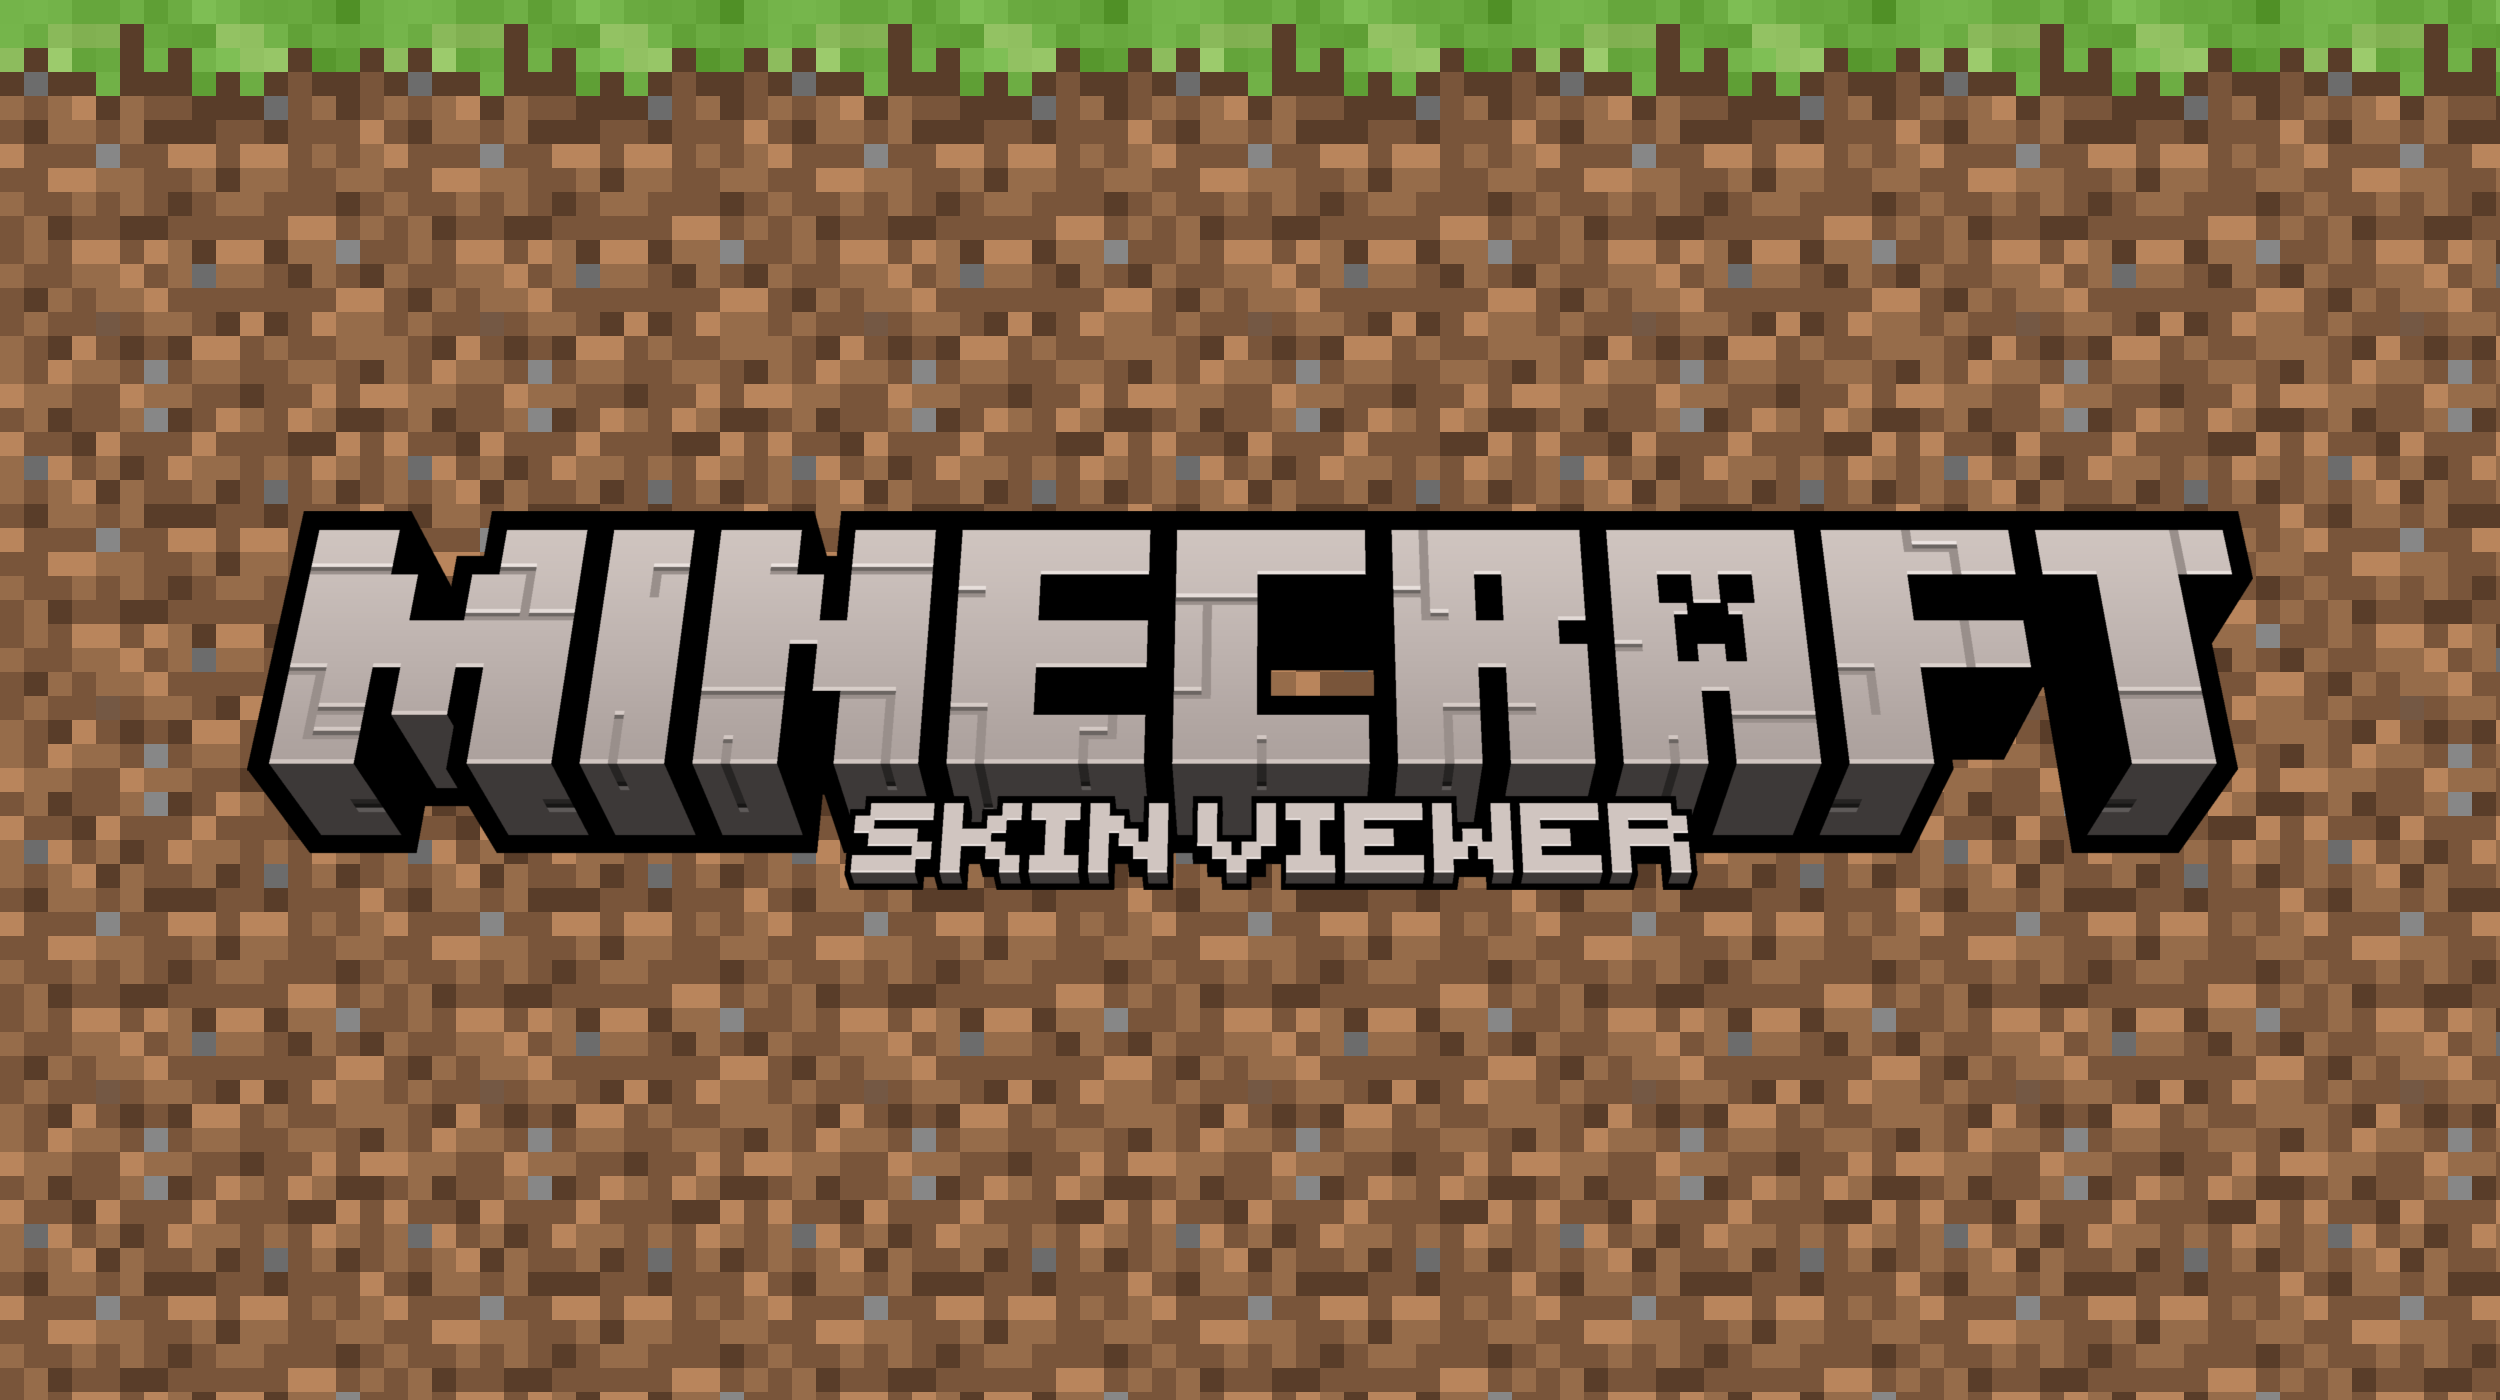
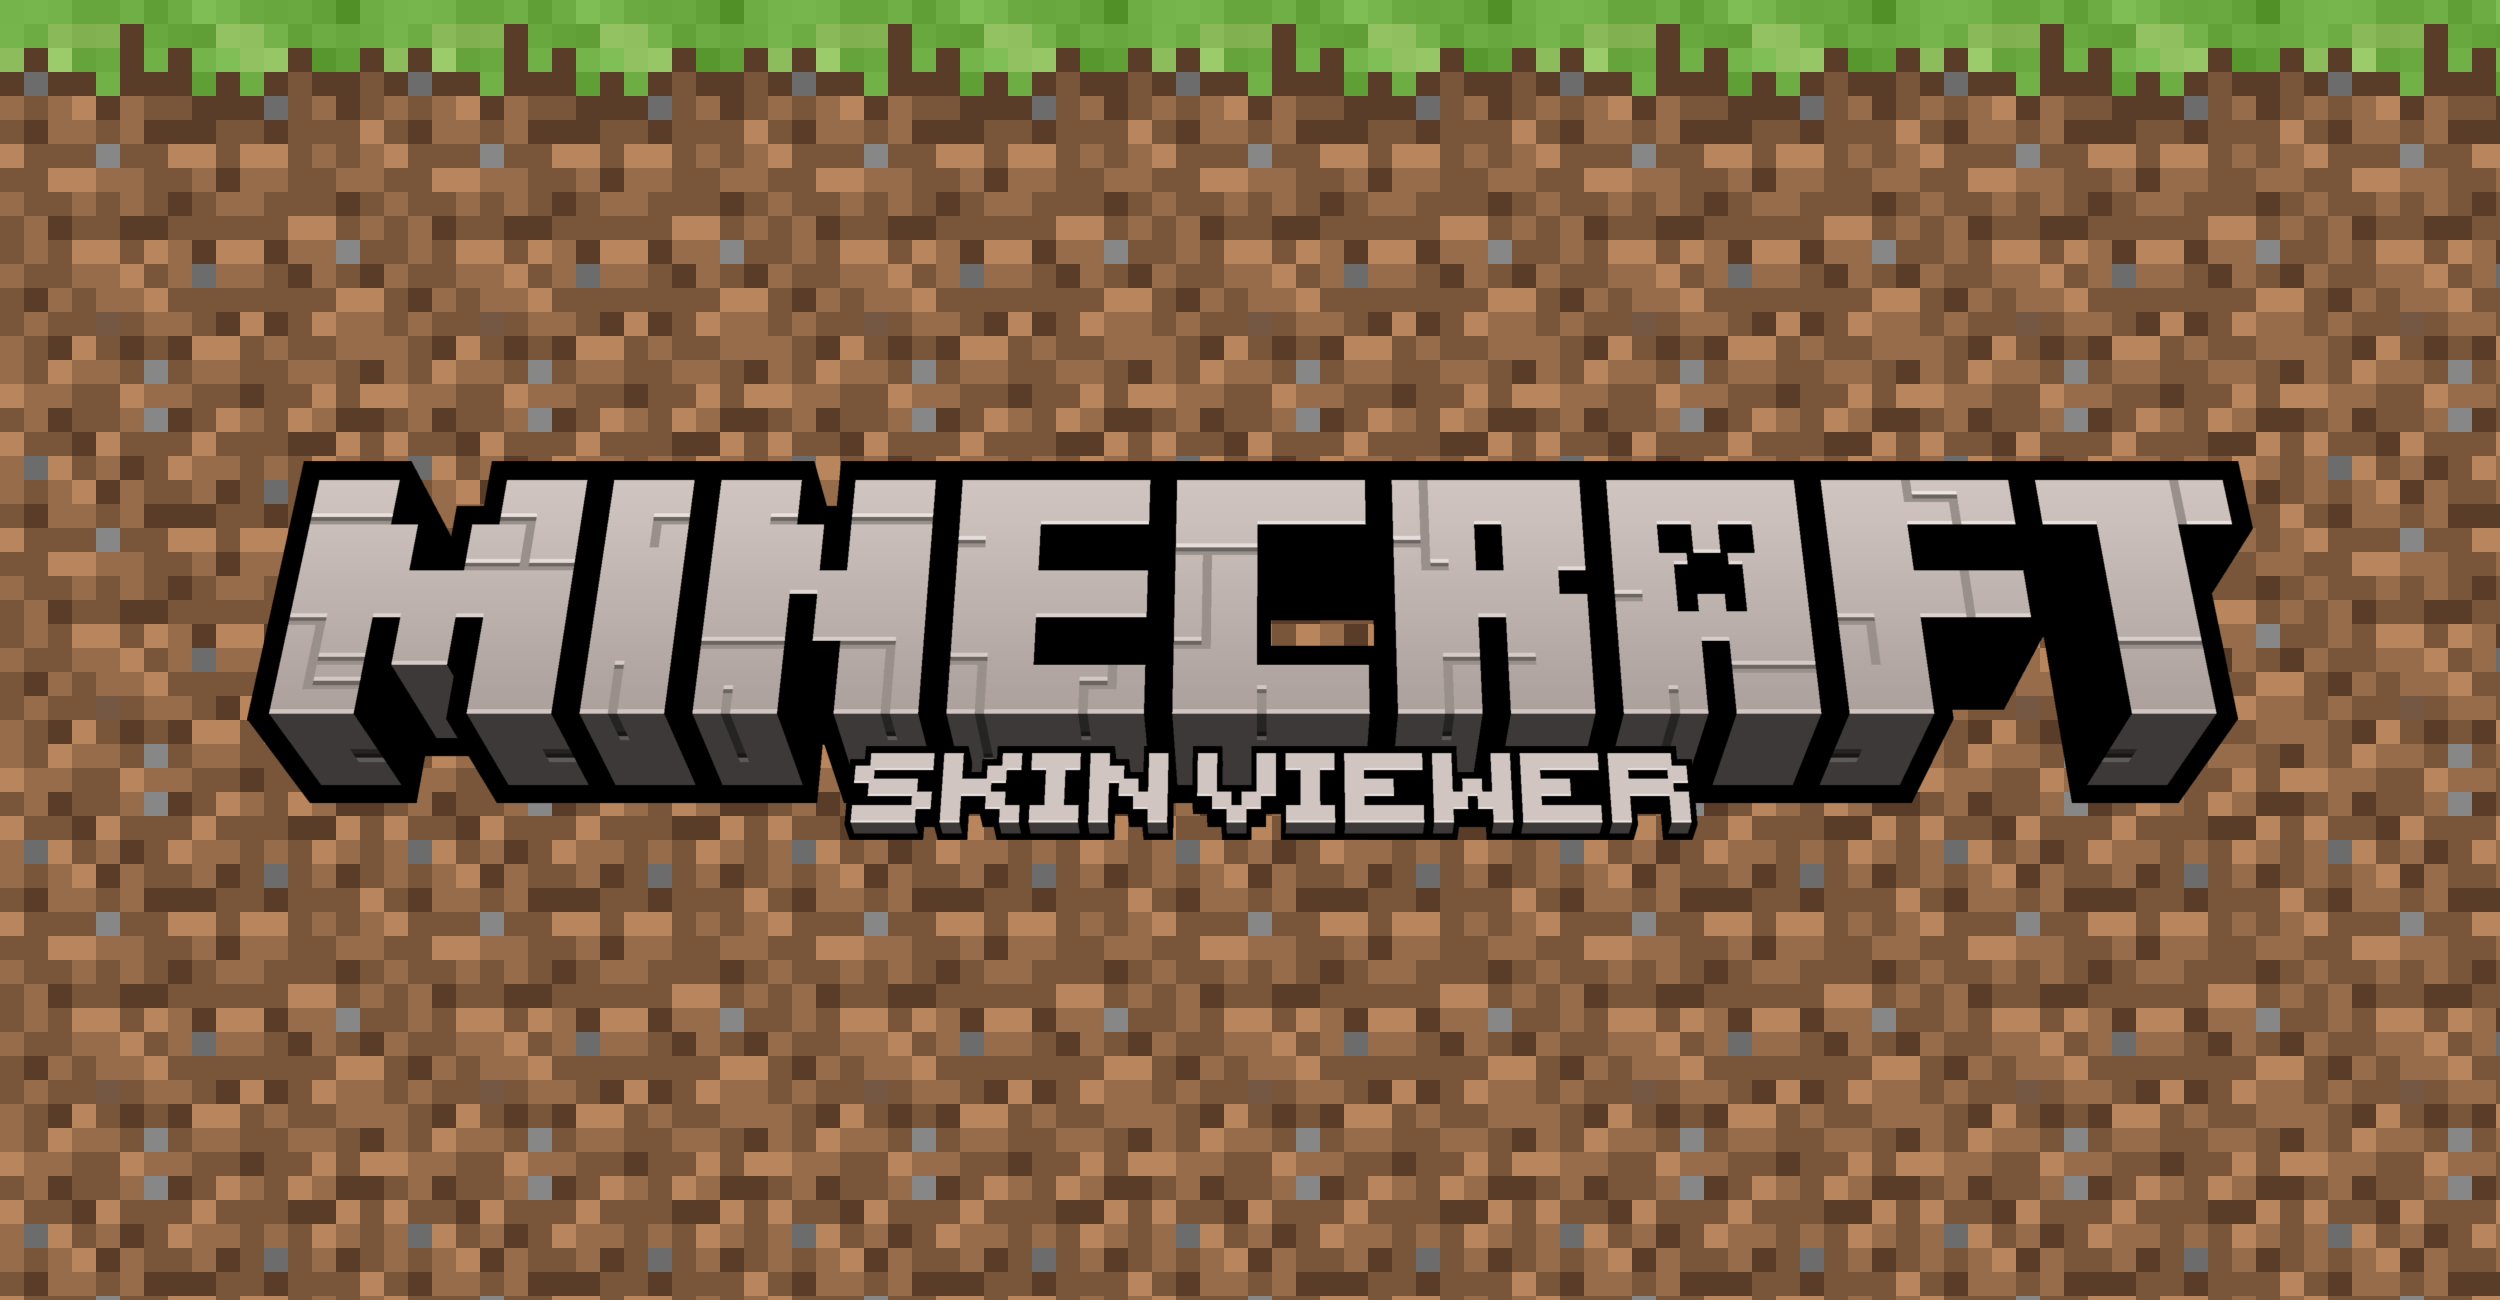
Editing open graph image

diff --git a/Poster.html b/Poster.html
@@ -1,0 +1,32 @@
+<canvas id="canvas"></canvas>
+<img src="dirt.png" id="dirt" />
+<img src="grass.png" id="ggrass" />
+<img src="poster-text.png" id="poster" />
+<a id="a" hidden></a>
+
+<script type="module" charset="utf-8">
+  const ctx = canvas.getContext('2d')
+  await Promise.all([
+    dirt.decode(),
+    grass.decode(),
+    poster.decode(),
+  ])
+  
+  const width = canvas.width = poster.width
+  const height = canvas.height = poster.height
+  
+  for (let i = 0; i < Math.ceil(width / dirt.width); i++)
+    for (let j = 0; j < Math.ceil(width / dirt.width); j++) {
+      ctx.drawImage(dirt, i * dirt.width, j * dirt.width)
+    }
+  
+  for (let i = 0; i < Math.ceil(width / dirt.width); i++) {
+    ctx.drawImage(grass, i * dirt.width, j * dirt.width)
+  }
+  
+  ctx.drawImage(poster, 0, 0)
+  
+  a.href = canvas.toDataURL()
+  a.download = 'poster.png'
+  a.click()
+</script>
